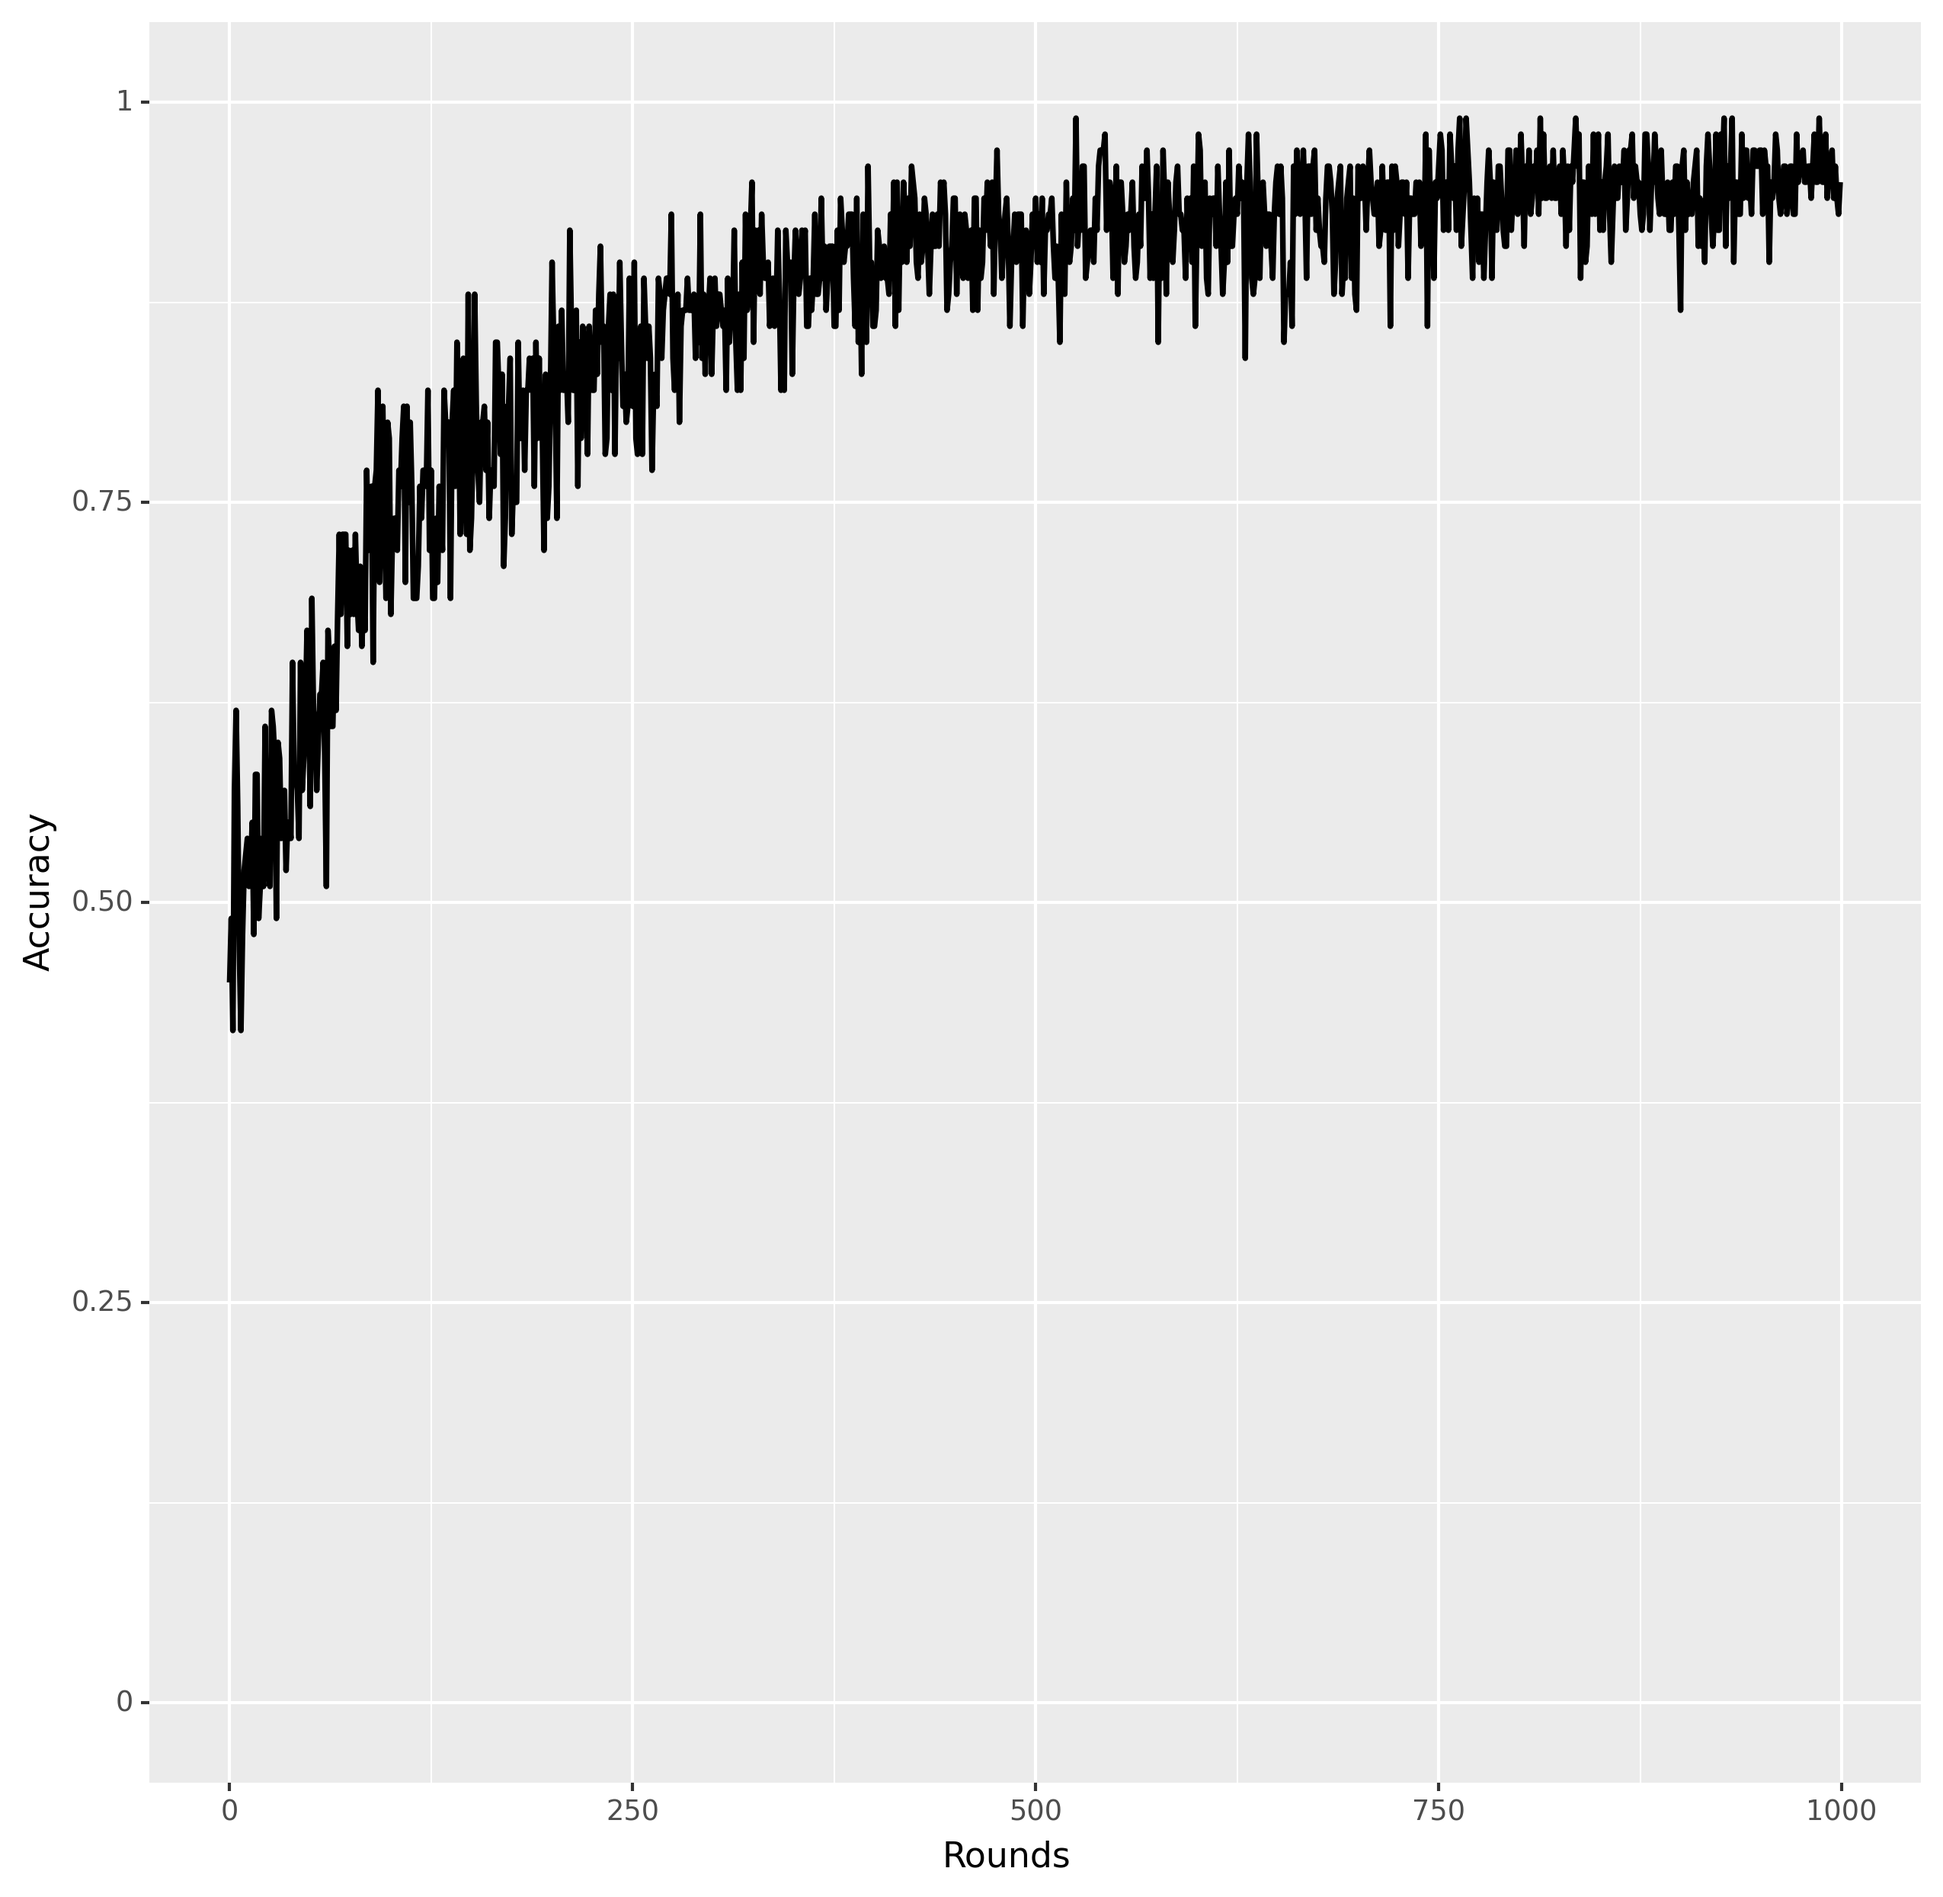
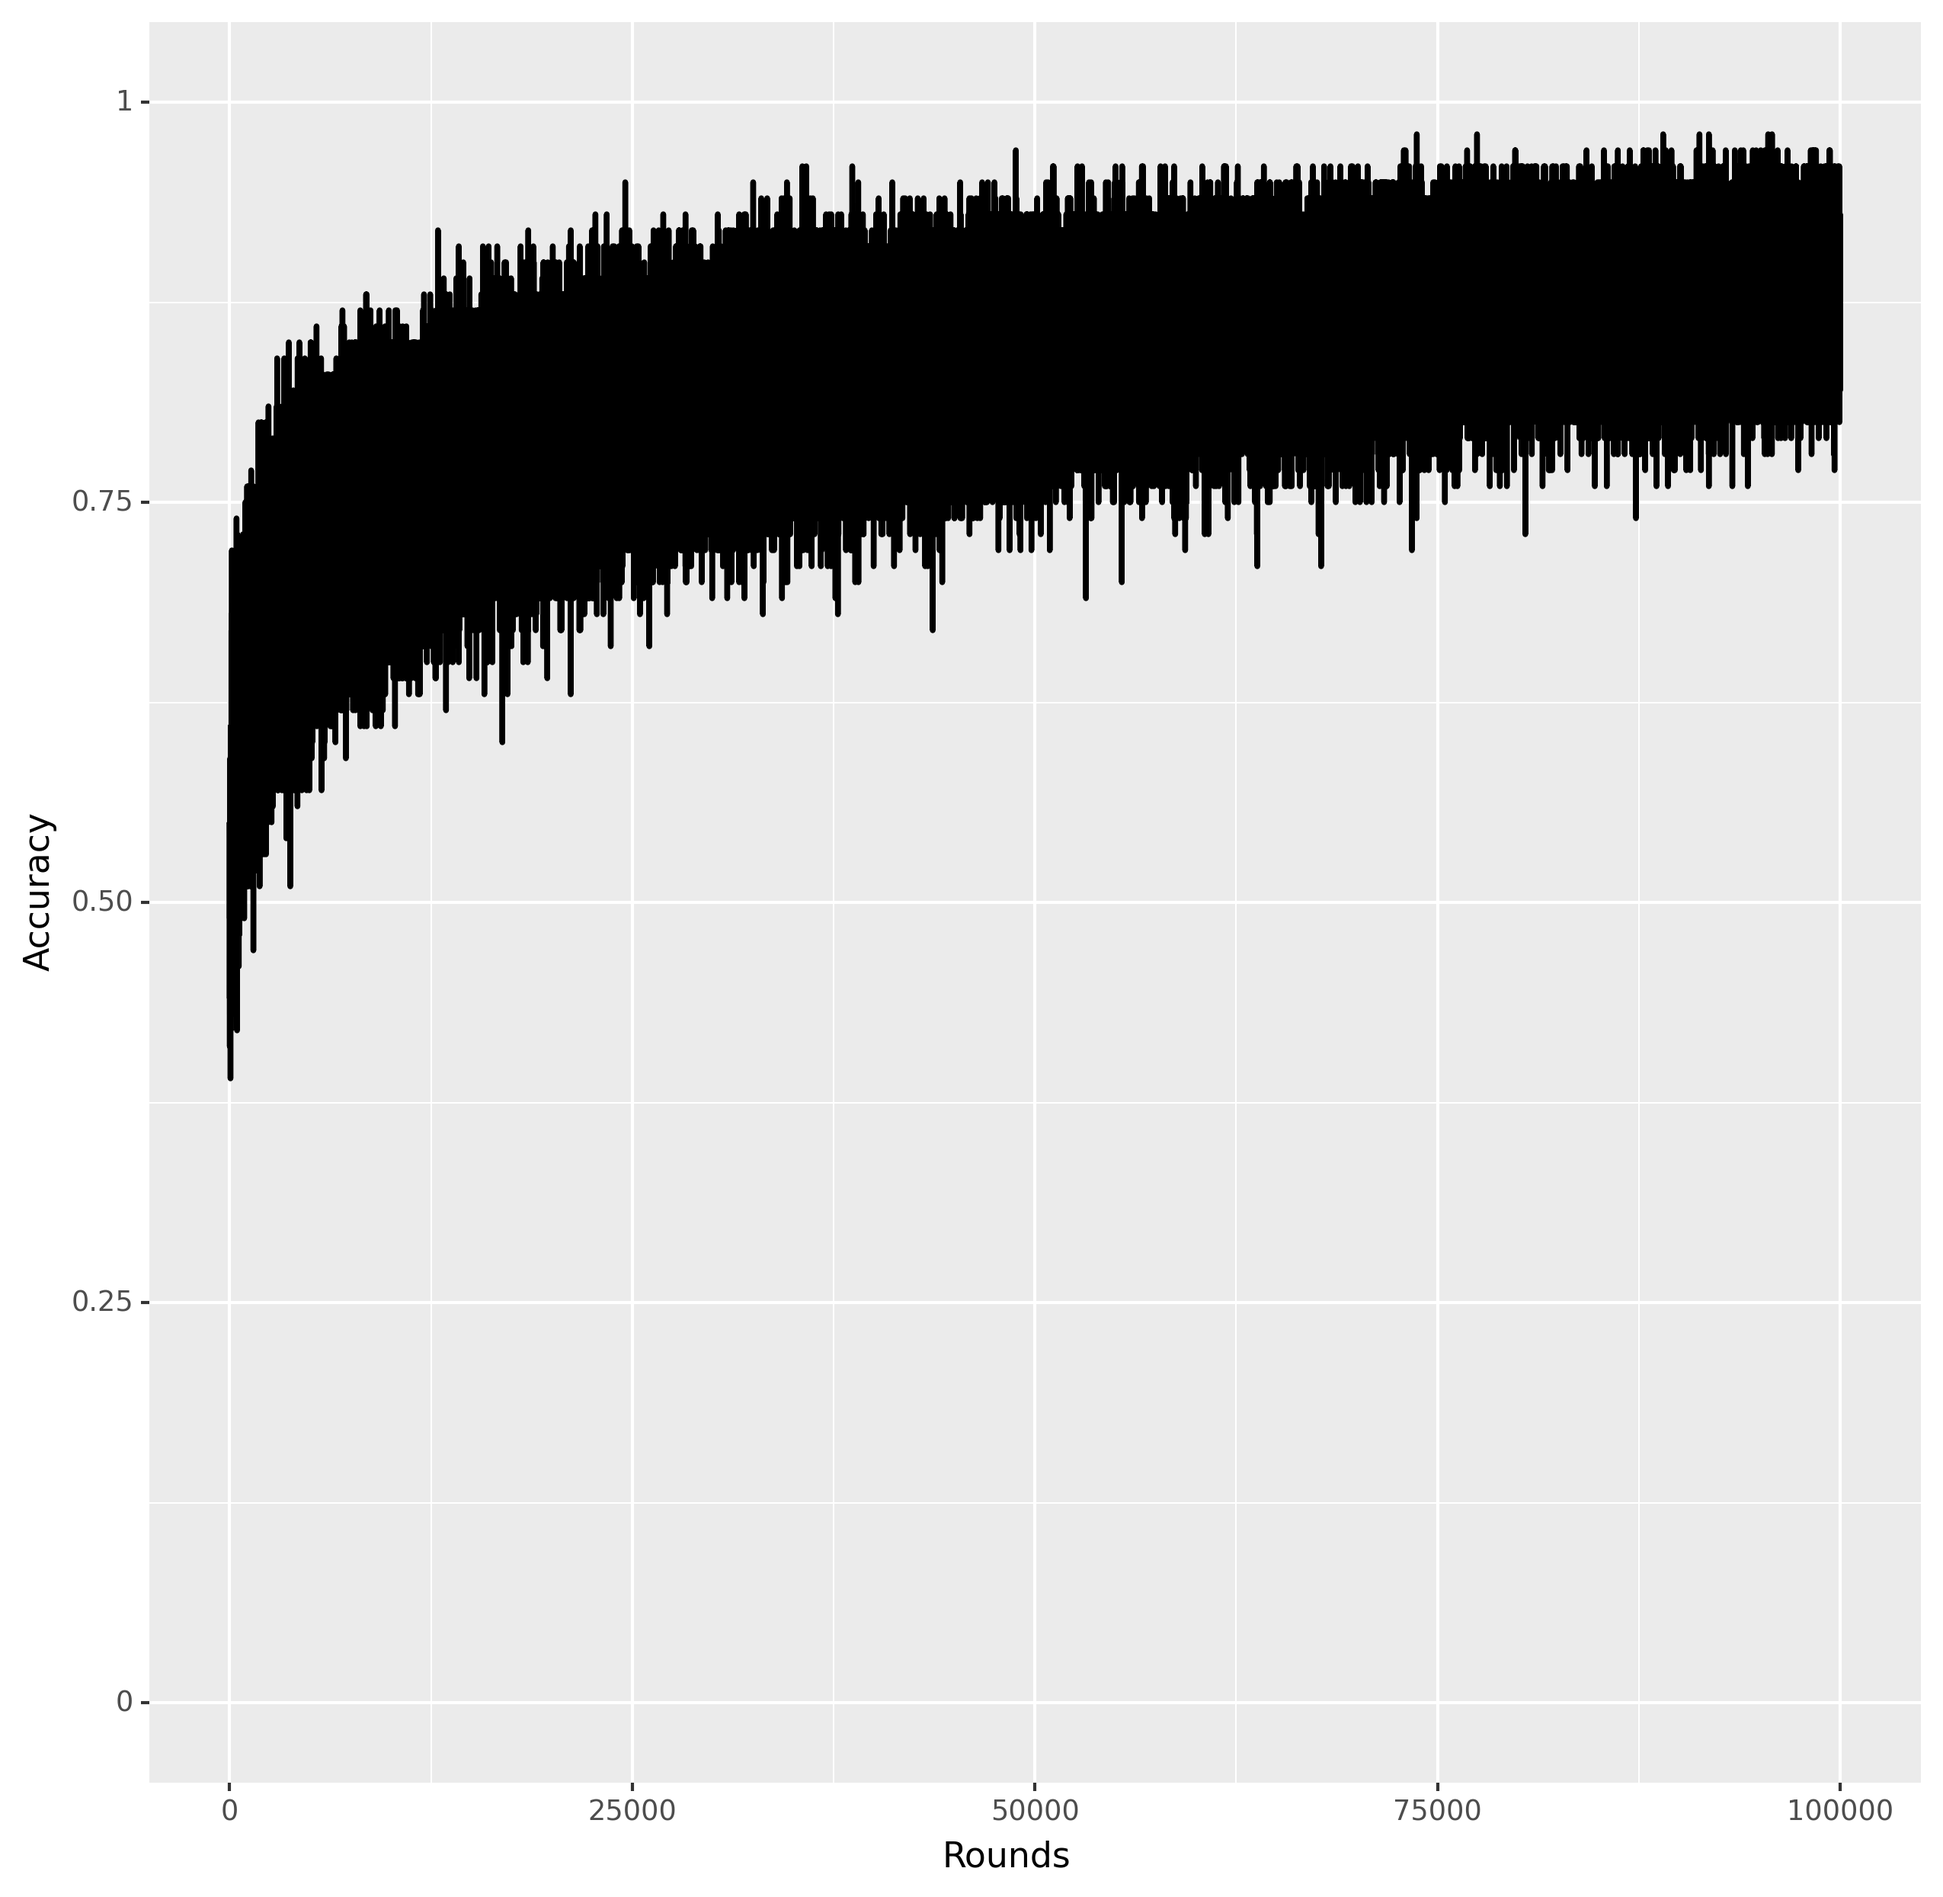
reach .93 acc

diff --git a/src/game/glass/glasses.py b/src/game/glass/glasses.py
@@ -1,0 +1,57 @@
+"""A Generalized self-ASSembling (GLASS) agent can learn boolean functions of arity (input length) 0 to 2 boolean truth-values, and always ouputs one boolean truth-value. We focus on the case of 2-arity functions.
+
+Variant on the signaling tree network problem for boolean games, with the following adjustments:
+
+    - Restrict to three possible boolean inputs
+    - Restrict to two possible agents
+    - One agent must come in a "later" layer than the previous
+    - Each agent is restricted to arity-2 functions.
+
+
+So, we have agent A, and agent B. Agent A can take two inputs from the list of [input_p, input_q, input_r]. Agent B can take two inputs from the list of [input_p, input_q, input_r, signal_b], where signal_b is the output of Agent B's decision. 
+"""
+
+from agents.module import Sequential
+from languages import State, Signal, StateSpace
+from game.boolean.signaltree import InputSender, OutputReceiver, HiddenSignaler
+from agents.module import SignalingModule
+from game.boolean.functional import get_quaternary_sender
+from agents.basic import Compressor
+
+INPUT_SIZE = 3 # restrict to input list of 3 atoms
+BOOLEAN_SPACE = StateSpace(states=[State("0"), State("1")])
+
+def state_to_signal(x: State) -> Signal:
+    """Converts a state to the analogous signal. Kind of arbitrary, but so is the distinction."""
+    return Signal(form=x.name, meaning=BOOLEAN_SPACE.referents)
+
+class GlassTree(Sequential):
+    """For now, we abstract away from signaling where states need to be mapped (learned) to signals in order to be sent across agents, and just let the objects passed around be states."""
+    def __init__(self, input_size: int = INPUT_SIZE) -> None:
+        self.input_size = input_size
+        self.agent_a = GlassInputSender(input_size=self.input_size) # input list
+        self.agent_b = OutputReceiver(input_size=self.input_size+1) # input list plus result of agent_a
+        super().__init__(layers=[self.agent_a, self.agent_b])
+    
+    def forward(self, x: list[State]) -> State:
+        # override forward because the second layer needs to see input layer in addition to previous layer.
+
+        if len(x) != self.input_size:
+            raise Exception(f"length of input passed ({len(x)}) does not match network input size ({self.input_size}).")
+
+        signal = self.agent_a(x) # 
+        state_b = self.agent_b([state_to_signal(state) for state in x] + [signal])
+        return state_b
+
+class GlassInputSender(Sequential):
+    """Like an InputSender but with two attention layers."""
+
+    def __init__(self, input_size: int) -> None:
+        self.input_size = input_size
+        self.compressor = Compressor(input_size)
+        self.sender = get_quaternary_sender()
+        super().__init__(layers=[self.compressor, self.sender])
+
+    def forward(self, x: list[State]) -> Signal:
+        # print("hidden signaler forward called")
+        return super().forward(x)

diff --git a/src/main.py b/src/main.py
@@ -1,3 +1,4 @@
+from game.glass.glasses import GlassTree
 import util
 import vis
 import sys
@@ -67,17 +68,18 @@ def main():
 
     # define learning problem
     # dataset = binary_data()
-    # dataset = n_ary_data(n=input_size, connective=AND)
-    dataset = get_ssr_data(f=XOR)
-    for example in dataset:
-        for k, v in example.items():
-            print(k, v)
+    dataset = n_ary_data(n=3, connective=XOR)
+    # dataset = get_ssr_data(f=XOR)
+    # for example in dataset:
+    #     for k, v in example.items():
+    #         print(k, v)
 
     # initialize network and parameters
     # net = SignalTree(input_size=input_size, learning_rate=learning_rate)
-    net = get_optimal_ssr()
+    # net = get_optimal_ssr()
     # net = Random()
     # net = Bottom()
+    net = GlassTree()
 
     accuracy = []
     # main training loop
@@ -86,7 +88,7 @@ def main():
 
         x = example["input"]
 
-        print("VALUE of x: ", x)
+        # print("VALUE of x: ", x)
         # x = list(example["input"])  # copy and shuffle order
         # random.shuffle(x)
 
@@ -103,22 +105,22 @@ def main():
 
         accuracy.append(acc)
 
-    # analysis
+    # # analysis
     vis.plot_accuracy(save_accuracy_plot, accuracy)
 
-    # Inspect languages for the optimal ssr net
-    sender_layer, receiver = net.layers
-    sender_a, sender_b = sender_layer.agents
-    # sender_a = sender_a.signaler
-    # sender_b = sender_b.signaler
-    # receiver = receiver.receiver
-    languages = [
-        sender_a.to_language(data={"name": "Sender A"}, threshold=0.5),
-        sender_b.to_language(data={"name": "Sender B"}, threshold=0.5),
-        receiver.to_language(data={"name": "Receiver"}, threshold=0.5),
-    ]
+    # # Inspect languages for the optimal ssr net
+    # sender_layer, receiver = net.layers
+    # sender_a, sender_b = sender_layer.agents
+    # # sender_a = sender_a.signaler
+    # # sender_b = sender_b.signaler
+    # # receiver = receiver.receiver
+    # languages = [
+    #     sender_a.to_language(data={"name": "Sender A"}, threshold=0.5),
+    #     sender_b.to_language(data={"name": "Sender B"}, threshold=0.5),
+    #     receiver.to_language(data={"name": "Receiver"}, threshold=0.5),
+    # ]
 
-    util.save_languages(fn=save_languages_fn, languages=languages)
+    # util.save_languages(fn=save_languages_fn, languages=languages)
 
 
 if __name__ == "__main__":

diff --git a/src/agents/basic.py b/src/agents/basic.py
@@ -8,6 +8,7 @@ from languages import (
     SignalMeaning,
     SignalingLanguage,
     State,
+    BooleanStateSpace,
 )
 from agents.module import (
     SignalingModule,
@@ -18,8 +19,21 @@ from functools import reduce
 from typing import Any, Union
 
 
-def compose(signal_a: Signal, signal_b: Signal) -> Signal:
-    return Signal(f"{signal_a.form}{signal_b.form}")
+# def compose_signals(signal_a: Signal, signal_b: Signal) -> Signal:
+    # return Signal(f"{signal_a.form}{signal_b.form}")
+
+# def compose_states(state_a: State, state_b: State) -> Signal:
+    # return State(f"{state_a.name}{state_b.name}")
+
+def compose(*x: list[Union[State, Signal]]) -> Union[State, Signal]:
+    # just two states for now:
+    """Map a pair of states or signals to their composition."""
+    a, b = x
+    if isinstance(a, State):
+        return State(name=f"{a.name}{b.name}")
+    if isinstance(b, Signal):
+        return Signal(form=f"{a.form}{b.form}", meaning=BooleanStateSpace().referents)
+
 
 
 ##############################################################################
@@ -220,15 +234,17 @@ class Compressor(Sequential):
         """Construct a Compressor module.
 
         Args:
-            input_size: the number of incoming signals to compress to a single signal.
+            input_size: the number of incoming signals [states] to compress to a single signal [state].
         """
         self.input_size = input_size
         self.attention_1 = AttentionAgent(self.input_size)  # shape (input_size, 1)
         self.attention_2 = AttentionAgent(self.input_size)  # shape (input_size, 1)
         super().__init__(layers=[self.attention_1, self.attention_2])
 
-    def forward(self, x: list[Signal]) -> Signal:
+    def forward(self, x: list[Any]) -> Any:
         # print("input to compressor forward: ", x)
+        # return compose_signals(
+        # return compose_states(
         return compose(
             self.attention_1(x),
             self.attention_2(x),

diff --git a/src/game/reinforce.py b/src/game/reinforce.py
@@ -2,7 +2,6 @@
 
 import numpy as np
 
-
 def bush_mosteller_reinforce(
     parameters: np.ndarray, indices: tuple[int], amount: float, **kwargs
 ) -> np.ndarray:
@@ -42,12 +41,6 @@ def bush_mosteller_reinforce(
 
     return parameters
 
-
-##############################################################################
-# Reinforcement learning algorithms
-##############################################################################
-
-
 def roth_erev_reinforce(
     parameters: np.ndarray,
     indices: tuple[int],
@@ -58,14 +51,13 @@ def roth_erev_reinforce(
     parameters[indices] += amount
     return parameters
 
-
 def win_stay_lose_shift_inertia(
     parameters: np.ndarray,
     indices: tuple[int],
     amount: float,
     **kwargs,
-) -> np.ndarray:
+)-> np.ndarray:
     """Win-stay lose-shift learning with inertia.
-
+    
     Requires a history to determine the number of losses, and to switch if greater than $i$, the inertia.
     """

diff --git a/src/languages.py b/src/languages.py
@@ -131,14 +131,17 @@ class SignalingLanguage(Language):
 ##############################################################################
 
 
+class BooleanStateSpace(StateSpace):
+    def __init__(self):
+        super().__init__(states=[State(name="0"), State(name="1")])
+
+
 def get_binary_language() -> SignalingLanguage:
     """Get a 2 state, 2 signal SignalingLanguage instance initialized for boolean games."""
 
-    states = [State(name="0"), State(name="1")]
-    universe = StateSpace(states)
-
+    universe = BooleanStateSpace()
     dummy_meaning = SignalMeaning(
-        states=states,
+        states=universe.referents,
         universe=universe,
     )
     signals = [

diff --git a/src/agents/module.py b/src/agents/module.py
@@ -34,6 +34,7 @@ class SignalingModule:
 
         parameters = None
         learner = "Roth-Erev"
+        # learner = "Bush-Mosteller"
         learning_rate = 1.0
         name = None
         if "parameters" in kwargs:
